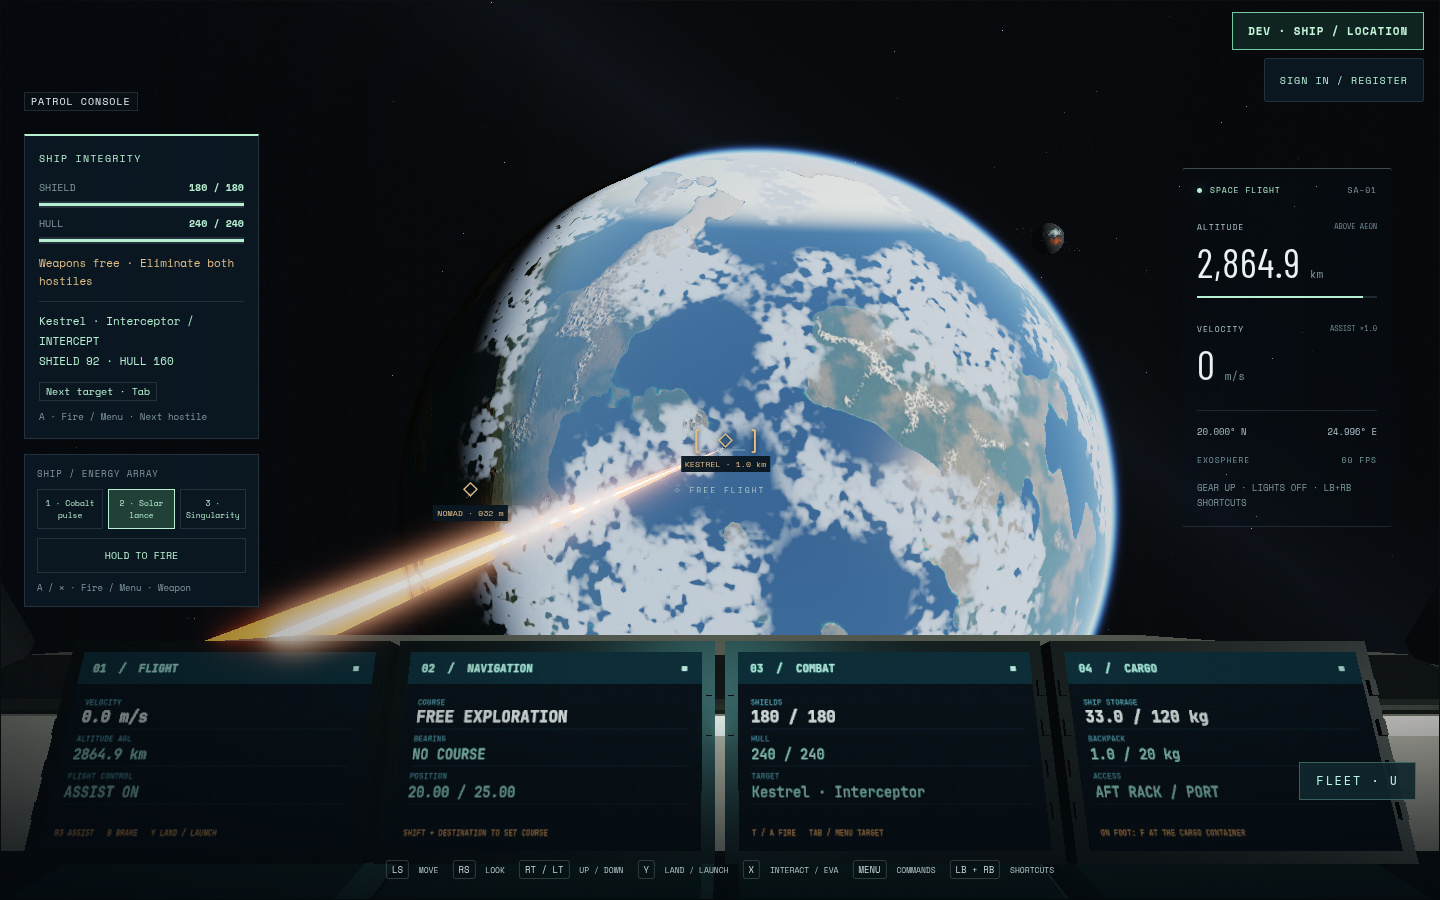
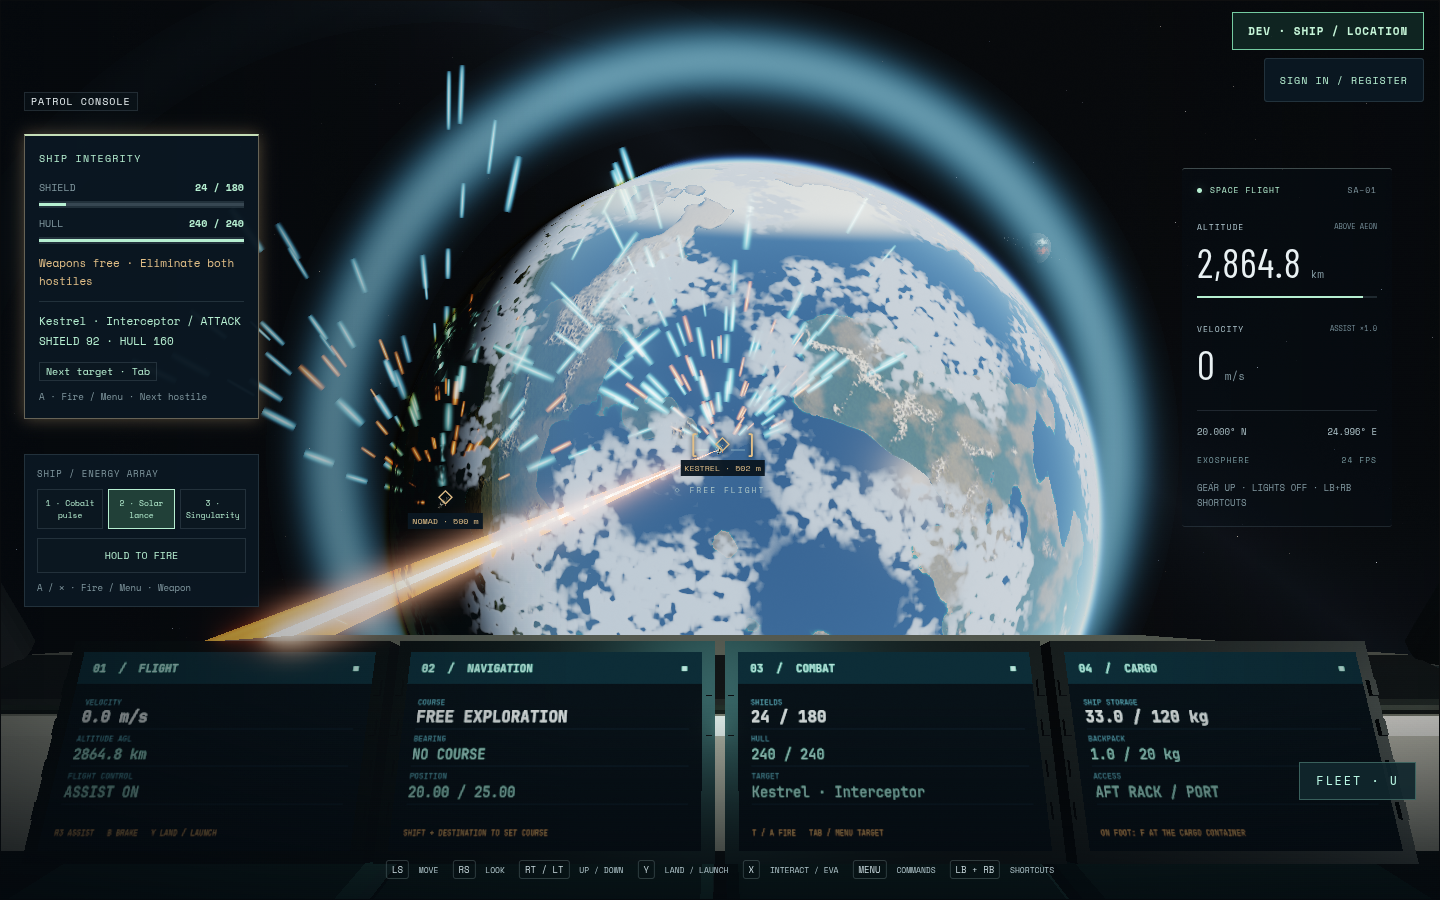
Record passing integrated combat journeys and final captures

Changed region(s): [[0.0, 0.0, 0.8125, 0.7156], [0.5312, 0.7778, 0.5938, 0.8089], [0.875, 0.28, 0.9062, 0.3111]]

diff --git a/docs/qa/space-combat.md b/docs/qa/space-combat.md
@@ -6,7 +6,9 @@ textures or GLBs were changed. Both render as NPCs in the main flight renderer.
 
 ## Checks
 
-- `npm test`: 90 test-file entries pass, including the new combat simulation tests.
+- `npm test`: 90 test-file entries pass on the isolated feature base; all 91 pass
+  after integration with the current gameplay-audio and hangar work, including
+  the new combat simulation tests.
 - `node --test --test-isolation=none tests/space-combat.test.js tests/gamepad.test.js tests/kestrel-flight.test.js`: 30 individual cases pass.
 - `VITE_DEV_TOOLS=1 npm run build`: passes. Existing Vite chunk-size advisory remains.
 - Actual Nomad and Kestrel controller patrol journeys: pass. Each starts in the
@@ -18,7 +20,8 @@ textures or GLBs were changed. Both render as NPCs in the main flight renderer.
   and unsupported mappings pass in both ship journeys.
 - Keyboard/pointer, controlled close-ups, NPC-caused ship loss, Enter recovery and
   phone console layout: pass. Combined with the two controller runs, all three
-  feature browser cases pass (the focused keyboard rerun takes 1.9 minutes).
+  feature browser cases pass. The final combined run at `b3f1a87` passes all three
+  in 4.4 minutes with no page/console errors.
 
 The account-session request is a signed-out fixture (`{account:null}`), keeping
 this offline feature's test independent of the unrelated account server. No other
@@ -55,7 +58,7 @@ Chromium 151; ANGLE / AMD Radeon 860M Graphics, OpenGL ES 3.2; desktop 1440×900
 phone console 390×844. Full counters/backend details and test logs remain in
 `/tmp/star-agent-combat-evidence/`, `/tmp/combat-browser.log` and
 `/tmp/combat-unit.log`. Captured encounter samples with both contacts used roughly
-581–582 draw calls and 457–479k triangles. These are renderer counters during
+581–585 draw calls and 457–479k triangles. These are renderer counters during
 an automated scenario, not a stable FPS benchmark. Reported frame rate varied
 with loading, captures and shared-machine activity; no performance sign-off is
 claimed. Automatic render resolution remained enabled.
@@ -72,3 +75,11 @@ absent rewards, weapon fitting and multiplayer NPC authority are described in
 - [Combat report](space-combat/report.png) and [ship loss](space-combat/loss.png).
 - [Nomad NPC](space-combat/nomad-npc.png) and [Kestrel NPC](space-combat/kestrel-npc.png), controlled viewpoints.
 - [Phone console](space-combat/phone-console.png), 390×844.
+
+## Local integration
+
+The combat commits are integrated into `dev/all-features` at `b3f1a87`. Its
+`http://127.0.0.1:5178/` preview serves the new simulation module. The existing
+launcher, audio paths, Kestrel cargo guard and unrelated unstaged `AGENTS.md` edit
+were preserved. [Draft PR #53](https://github.com/AvonMexicola/star-agent/pull/53)
+targets the shared integration branch; no production deployment occurred.

diff --git a/HANDOFF.md b/HANDOFF.md
@@ -1792,3 +1792,11 @@ also pass and are recorded with captures in `docs/qa/space-combat.md`. Independe
 review and physical-controller testing are not claimed. This is an offline,
 session-only first slice: no reward ledger, persistent mission, physical weapon
 fittings, ship collision damage, component damage, or multiplayer NPC authority.
+
+Patrol integration: `b3f1a87` is on `dev/all-features`; the live 5178 preview serves
+the combat module. Shared gameplay/audio build and all 91 test entries pass.
+Draft review: https://github.com/AvonMexicola/star-agent/pull/53. The unrelated
+shared `AGENTS.md` edit remains unstaged and untouched.
+Final combined patrol browser regression: all three cases pass in 4.4 minutes
+at `b3f1a87`, including keyboard/pointer fire, NPC-caused loss, recovery and phone
+console layout. Refreshed captures are in `docs/qa/space-combat/`.
